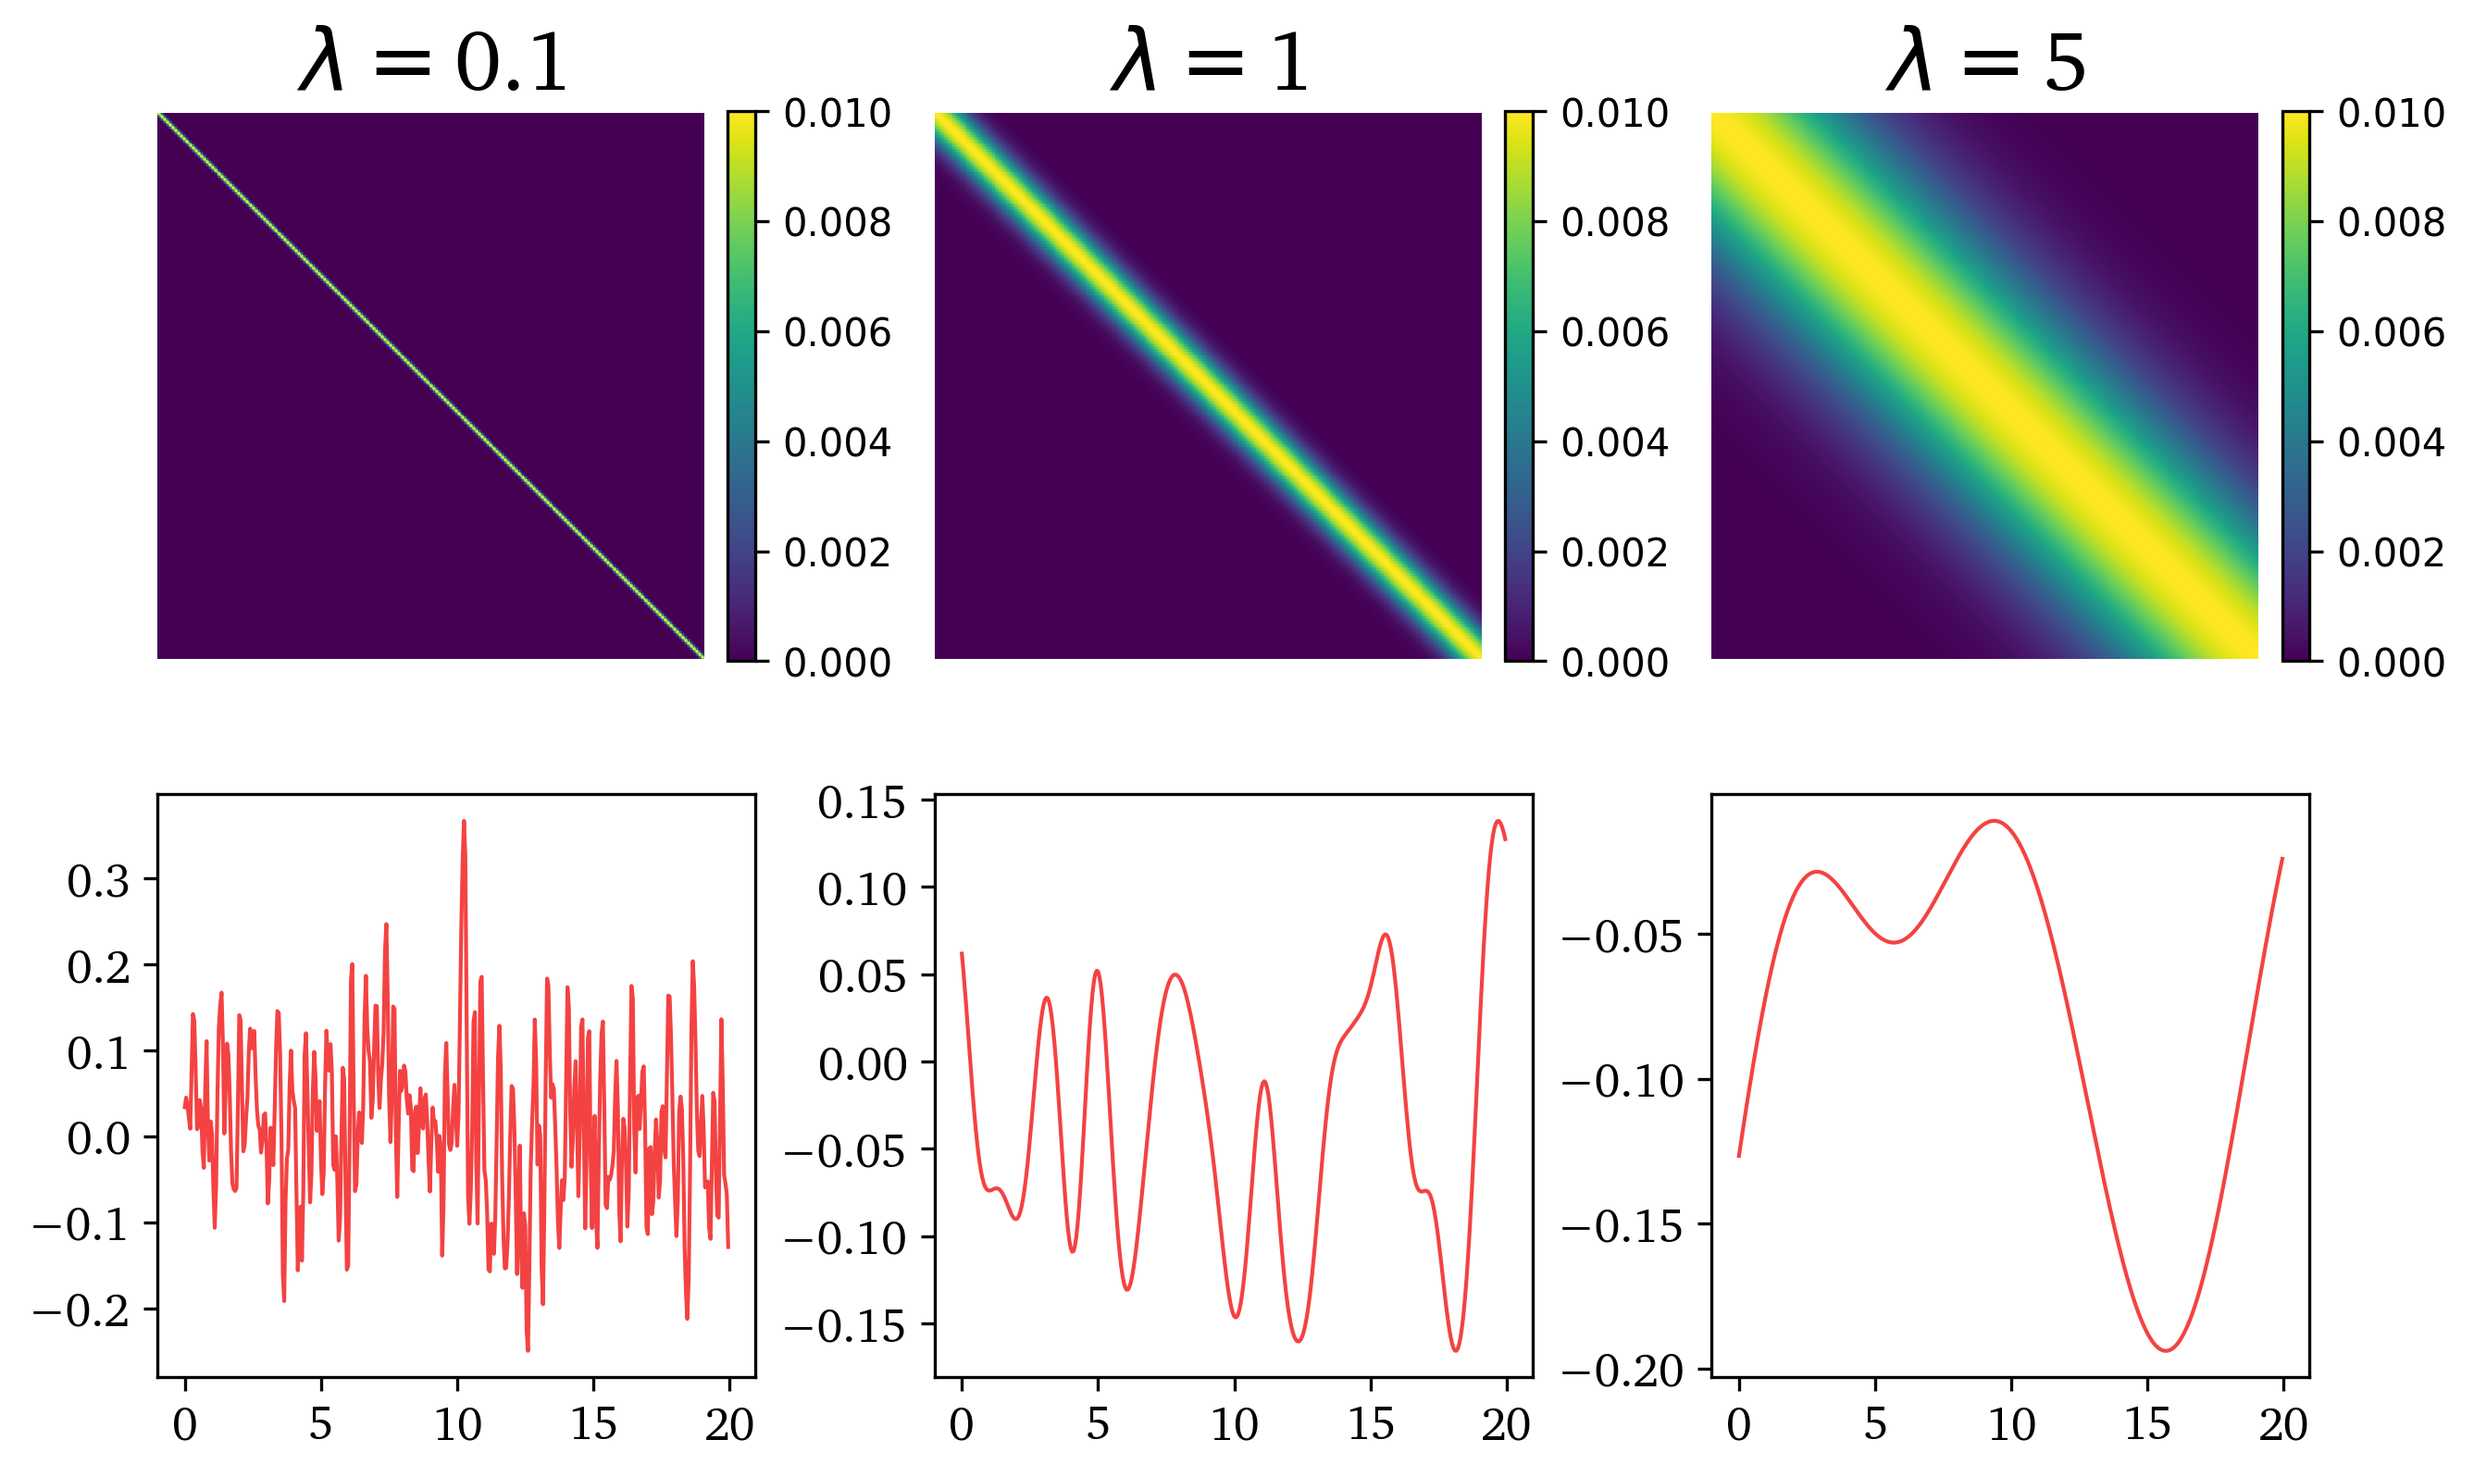
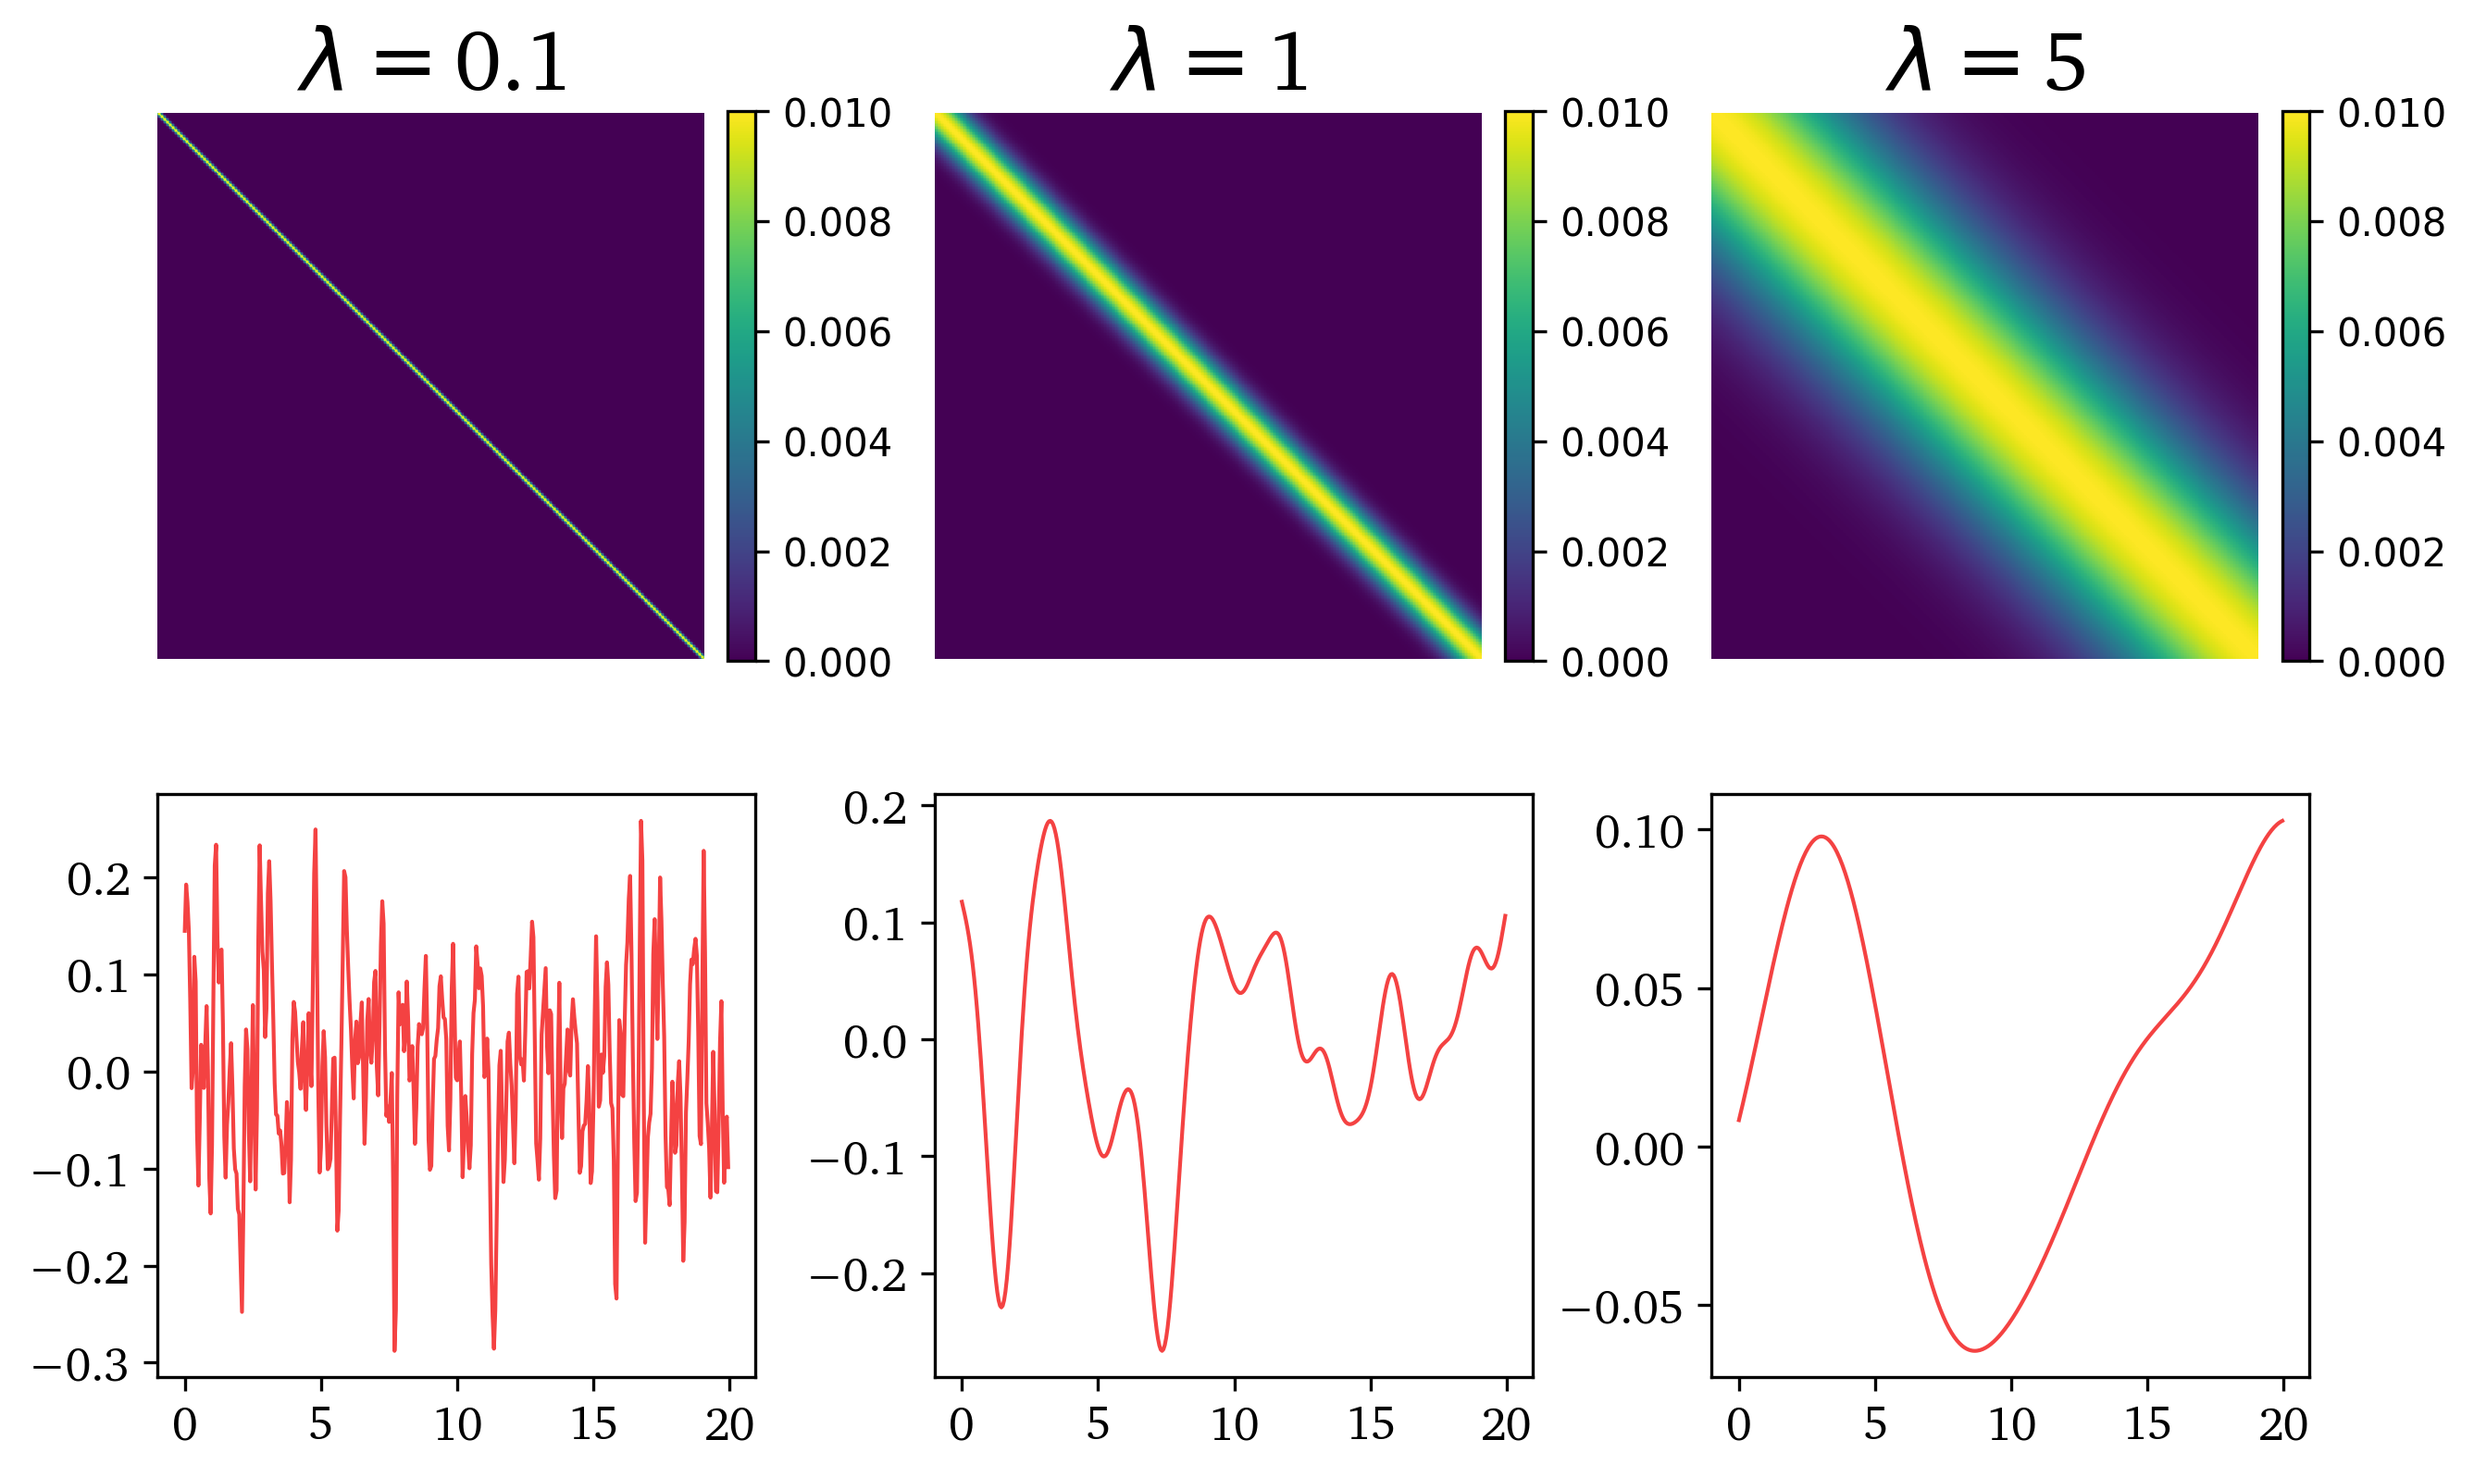
GPR SE kernel put together

diff --git a/GPR/GPR-Python/covKernelChangingH.py b/GPR/GPR-Python/covKernelChangingH.py
@@ -16,14 +16,20 @@ lineColour = '#f44242'
 lam = 1
 h = [0.1, 1, 5]
 
-x = np.arange(0, 20, 0.01)
+x = np.arange(0, 20, 0.05)
 
 # Display covariance matrix:
-figure = plt.figure(figsize=(10, 5))
+figure = plt.figure(figsize=(10, 6))
+
 for idx, i in enumerate(h):
-    print(idx)
-    figureSubplot = figure.add_subplot(1,3,idx+1)
+
+    # Generate covariance matrix:
     Cov = covMatrix.covMatrixSE(x, i, lam)
+
+    # Draw realization from the current covariance:
+    y = np.random.multivariate_normal(np.zeros(len(x)), Cov)
+
+    figureSubplot = figure.add_subplot(2,3,idx+1)
     im = plt.imshow(Cov)
     plt.yticks([]), plt.xticks([])
     plt.title('$h = $' + str(i), **csfont, fontsize=font_title)
@@ -45,8 +51,21 @@ for idx, i in enumerate(h):
         label.set_fontweight('regular')
         label.set_fontsize(font_axis)
 
-plt.subplots_adjust(wspace=0.3, hspace=0.3)
+    figureSubplot = figure.add_subplot(2,3,idx+4)
+    plt.plot(x, y, color=lineColour, linewidth=1)
+
+    # Set the tick labels font
+    for label in (figureSubplot.get_xticklabels()):
+        label.set_fontname('Charter')
+        label.set_fontweight('regular')
+        label.set_fontsize(font_axis)
+
+    for label in (figureSubplot.get_yticklabels()):
+        label.set_fontname('Charter')
+        label.set_fontweight('regular')
+        label.set_fontsize(font_axis)
+
+plt.subplots_adjust(wspace=0.3, hspace=0.2)
 filename = 'cov-Kernel-SE-changing-h.png'
 plt.savefig(filename, dpi = 300, bbox_inches='tight')
-
 plt.show()

diff --git a/GPR/GPR-Python/covKernelChangingLambda.py b/GPR/GPR-Python/covKernelChangingLambda.py
@@ -20,6 +20,7 @@ x = np.arange(0, 20, 0.05)
 
 # Display covariance matrix:
 figure = plt.figure(figsize=(10, 6))
+
 for idx, i in enumerate(lam):
 
     # Generate covariance matrix:
@@ -28,9 +29,7 @@ for idx, i in enumerate(lam):
     # Draw realization from the current covariance:
     y = np.random.multivariate_normal(np.zeros(len(x)), Cov)
 
-    print(idx)
     figureSubplot = figure.add_subplot(2,3,idx+1)
-    Cov = covMatrix.covMatrixSE(x, h, i)
     im = plt.imshow(Cov)
     plt.yticks([]), plt.xticks([])
     plt.title('$\lambda = $' + str(i), **csfont, fontsize=font_title)

diff --git a/GPR/GPR-Python/README.md b/GPR/GPR-Python/README.md
@@ -6,10 +6,8 @@ We explore graphically how changing hyperparameters for the squared exponential 
 
 ### Effect of changing `lambda` - kernel width
 
-![Screenshot](cov-Kernel-changing-lambda.png)
-
-![Screenshot](realizations-changing-lambda.png)
+![Screenshot](cov-Kernel-SE-changing-lambda.png)
 
 ### Effect of changing `h` - scaling factor
 
-![Screenshot](cov-Kernel-changing-h.png)
+![Screenshot](cov-Kernel-SE-changing-h.png)
